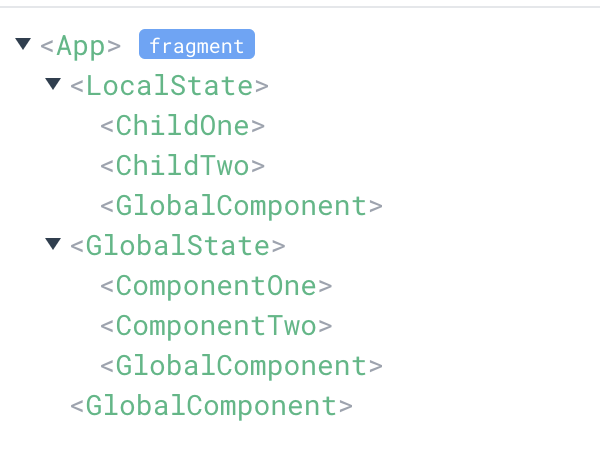
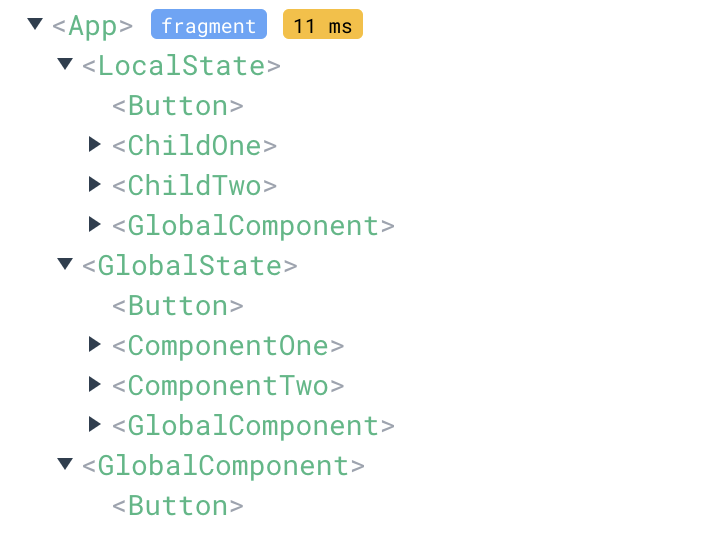
feat: :memo: Update readme

Changed region(s): [[0.06, 0.2403, 0.63, 0.8112], [0.0, 0.0, 1.0, 0.2103], [0.06, 0.8412, 0.6, 0.9614]]

diff --git a/react/vite.config.ts b/react/vite.config.ts
@@ -5,6 +5,6 @@ import react from '@vitejs/plugin-react'
 export default defineConfig({
   plugins: [react()],
   server: {
-    port: 5000,
-  }
-})
+    port: 5001,
+  },
+});

diff --git a/vue/vite.config.ts b/vue/vite.config.ts
@@ -5,6 +5,6 @@ import vue from '@vitejs/plugin-vue'
 export default defineConfig({
   plugins: [vue()],
   server: {
-    port: 5001
-  }
-})
+    port: 5002,
+  },
+});

diff --git a/README.md b/README.md
@@ -2,34 +2,60 @@
 
 ![alt](./react-state.png)
 
-Uno podría pasar el estado como propiedades (props en react) a los componentes hijos, pero esto solo es recomendable hasta cierto punto, por ejemplo, una jerarquía de componentes de 3 niveles, como máximo. Si se requiere pasar el estado a componentes más profundos, se recomienda usar un estado global. Cuando pasamos un prop de un componente a otro componente, y este a otro, y este a otro, se conoce como [prop drilling](https://frontend.adaitw.org/docs/react/react23).
+Uno puede pasar el estado como propiedades (props en react y vue) a los componentes hijos, pero esto solo es recomendable hasta cierto punto, por ejemplo, una jerarquía de componentes de 3 niveles, como máximo. Si se requiere pasar el estado a componentes más profundos, un etado global es una mejor opción. Cuando pasamos un prop de un componente a otro componente más abajo, y este a su vez a otro más abajo, se conoce como [prop drilling](https://frontend.adaitw.org/docs/react/react23).
 
 ### React
 
-En React, se puede compartir estado local, usando el hook `useState`.
+En React, se crean etsados locales usando el hook `useState`. Este estado se puede pasar a otros componentes más abajo, pero no a componentes por fuera de su jerarquía.
 
-Dentro de un componente padre, como  `<App />`, se crea el estado, y se pasa como propiedades a los componentes hijos, como `<ReactChildComponent />`.
+Dentro de un componente padre, como  `<App />`, se crea el estado, y se pasa como propiedades a los componentes hijos, como `<ComponenteHijoReact />` en el siguiente ejemplo.
 
 ```js
-const [count, setCount] = useState
+// App.js
+const [contador, setCount] = useState
 ... 
-<ReactChildComponent count={count} setCount={setCount} />
+<ComponenteHijoReact contador={contador} setCount={setCount} />
 ```
 
-dentro de `<ReactChildComponent />` se puede actualizar el estado de `<App />`, usando el prop `setCount`:.
+Dentro de `<ComponenteHijoReact />` se puede actualizar el estado de `<App />`, usando el prop `setCount`, y este componente a su vez puede compoartir el estado a componentes más abajo:.
 
 ```js
-export function ReactChildComponent({count, setCount}) {
+export function ComponenteHijoReact({contador, setCount}) {
   return (
     <div>
-      <p>Count: {count}</p>
-      <button onClick={() => setCount(count + 1)}>Increment</button>
+      <p>Count: {contador}</p>
+      <button onClick={() => setCount(contador + 1)}>Increment</button>
+      <AnotherComponent contador={contador} />
     </div>
   )
 }
 ```
 
-Tanto el estado, `count`, como la función para actualizar el estado, `setCount`, se pasan como propiedades al componente hijo, y al componente del hijo, y así sucesivamente. De esta manera se puede compartir un estado entre un padre y sus hijos.
+Tanto el estado, `contador`, como la función para actualizar el estado, `setCount`, se pasan como propiedades a componente hijo, y al componente del hijo, y así sucesivamente. De esta manera se puede compartir un estado entre un padre y sus hijos.
+
+Un problema de compartir estado de esta manera es que requiere que se declaren
+explícitamente las propiedades que se pasan a los componentes hijos. Si tengo un componente
+Padre: `<Padre />` y dentro del arbol de `<Padre />` existe un componente `<Hijo />` que requiere el estado, este estado tiene que pasar por todo los ancestros de `<Hijo />`.
+
+```bash
+<Padre />
+├─ <ComponenteUno />
+│  ├─ <ComponenteDos />
+│  │  ├─ <ComponenteTres />
+│  │  │  ├─ <Hijo />
+```
+
+Otro problema es que si se requiere pasar el estado a un componente `<OtroHijo />` que no es hijo de `<App />`, no es posible por metodos convencionales.
+
+```bash
+<Padre />/
+├─ <ComponenteUno />/
+│  ├─ <ComponenteDos />/
+│  │  ├─ <ComponenteTres />/
+│  │  │  ├─ <Hijo />/
+<Hermano />/
+├─ <OtroHijo />/
+```
 
 ### Vue
 
@@ -38,80 +64,153 @@ En vue también se puede compartir estado local, usando refs, que son valores mu
 ```js
 import { ref } from 'vue'
 
-const count = ref(0)
+const contador = ref(0)
 
-const incrementCount = () => {
-  count.value++
+const incrementarContador = () => {
+  contador.value++
 }
 ...
-<VueChildComponent :count=count :incrementCount=incrementCount />
+<ComponenteHijoVue :contador=contador :incrementarContador=incrementarContador />
 ```
 
-Dentro de `<VueChildComponent />` se puede actualizar el estado de `<App />` a través de la propiedad `incrementCount`:
+Dentro de `<ComponenteHijoVue />` se puede actualizar el estado de `<App />` a través de la propiedad `incrementarContador` y pasar el estado a componentes más abajo:
 
 ```js
-defineProps<{ count: number, incrementCount: () => void }>()
+defineProps<{ contador: number, incrementarContador: () => void }>()
 
 </script>
 
 <template>
  <div>Child Component
-    <div> {{count}}</div>
-    <button @click="incrementCount">
-      Increment  count
-    </button> 
+    <div> {{contador}}</div>
+    <button @click="incrementarContador">
+      Increment  contador
+    </button>
+    <AnotherComponent :contador=contador />
   </div>
  
 </template>
 ```
 
+Los problemas que se mencionaron para React también se aplican a Vue ya que ambos tienen una jerarquía de componentes.
+
+### Vue/React
+
+Se puede pensar en los componentes como si fueran funciones simples, y el estado como si fuera un argumento en esas funciones. En el siguiente ejemplo, las funciones `Hijo`, `Nieto`, `Bisnieto` están declaradas por fuera de `App`, entonces para que puedan acceder a `contador` tienen que recibirlo como argumento.
+
+```js
+function Hijo(contador, incrementarContador) {
+  console.log(contador.valorActual) // 0
+
+  incrementarContador()
+  Nieto(contador, incrementarContador)
+}
+
+function Nieto(contador, incrementarContador) {
+  console.log(contador.valorActual) // 1
+
+  incrementarContador()
+  Biznieto(contador, incrementarContador)
+}
+
+function Bisnieto(contador, incrementarContador) {
+  console.log(contador.valorActual) // 2
+
+  incrementarContador()
+}
+
+function App() {
+
+  let contador = {
+    valorActual: 0
+  };
+
+  function incrementarContador() {
+    contador.valorActual++
+  }
+
+  Hijo(contador, incrementarContador);
+
+  console.log(contador.valorActual) // 3
+}
+App();
+```
+
 ## Estado Global
-
-### React
-
-En el ecosistema de React, existen muchas opciones de estado global. Algunas son Redux,
-[zustand](https://github.com/pmndrs/zustand), [jotai](https://jotai.org/), [recoil](https://recoiljs.org/), y el propio [Context API](https://reactjs.org/docs/context.html) de React.
-
-Con una libreria como estas, se puede crear un estade centralizado, y compartirlo entre componentes sin tener que pasar el estado a través props.
-
-![alt](./global-state.png)
 
 Este tipo de estados no requieren de un componente padre, y pueden ser usados en cualquier parte de la aplicación.
 
+![alt](./global-state.png)
+
+### React
+
+En el ecosistema de React, existen muchas opciones de estado global. Algunas son [Redux](https://redux.js.org/), [zustand](https://github.com/pmndrs/zustand), [jotai](https://jotai.org/), [recoil](https://recoiljs.org/), y el propio [Context API](https://reactjs.org/docs/context.html) de React.
+
+Con una libreria como estas, se puede crear un estado centralizado, y compartirlo entre componentes sin tener que pasar el estado a través props.
+
+En este repo se puede ver un ejemplo de como usar Jotai con React: [App.js](./react/src/App.tsx)
+
+Para verlo entrar a la carpeta `react/`,  ejecutar `yarn install` y `yarn dev`.
+
+Este ejemplo de react, se genera un arbol de componentes como el siguiente:
+
 ![alt](./react-tree.png)
 
-En la imagen de arriba se puede ver un ejemplo de una jerarquía de componentes en react. `<GlobalComponent />`, `<GlobalState/>`, `<ComponentOne />`, y `<ComponentTwo />` pueden accedor a un mismo estado global, usando `jotai`, sin pasar el estado como propiedades.
+Los componentes `<GlobalComponent />`, `<GlobalState/>`, `<ComponentOne />`, y `<ComponentTwo />` acceden a un mismo estado global, usando `jotai`, sin recibir el estado como propiedades.
 
 ### Vue
 
-Vue tiene una solución de estado global, se llama `reactive`. También hay otroas opciones
-como Vuex, y Pinia.
+Vue viene con una solución de estado global, se llama `reactive`. También hay otroas opciones
+como [Vuex](https://vuex.vuejs.org/), y [Pinia](https://pinia.vuejs.org/).
 
-Podemos crear un estado global, usando `reactive`, asi:
+En este repo también se puede ver un ejemplo de un estado global: [App.vue](./vue/src/App.vue)
+
+Para verlo entrar a la carpeta `vue/`,  ejecutar `yarn install` y `yarn dev`.
+
+Este ejemplo de vue, se genera arbol de componentes como el siguiente:
+
+![alt](./vue-tree.png)
+
+Los componentes `<GlobalComponent />`, `<GlobalState/>`, `<ComponentOne />`, y `<ComponentTwo />` acceden a un mismo estado global, usando `reactive`, sin pasar el estado como propiedades usando.
+
+Para crear un estado global, usando `reactive`, podemos hacer lo siguiente:
 
 ```js
+// store.js
 import { reactive } from "vue";
 
 export const store = reactive({
-  count: 0,
+  contador: 0,
 });
 ```
 
-Y podemos acceder al estado global, usando `store`, y mutarlo:
+En algun componente:
 
 ```js
 import { store } from "./store";
 
-const incrementCount = () => {
-  store.count++;
+const incrementarContador = () => {
+  store.contador++;
 };
 ```
 
 Cualquier componente que este leyendo de `store`, se actualizará cuando el estado cambie.
 
-![alt](./vue-tree.png)
+### Como saber que tipo de estado usar?
 
-En la imagen de arriba se puede ver un ejemplo de una jerarquía de componentes en vue. `<GlobalComponent />`, `<GlobalState/>`, `<ComponentOne />`, y `<ComponentTwo />` pueden accedor a un mismo estado global, usando `reactive`, sin pasar el estado como propiedades usando.
+#### React
+
+- Si el estado es compartido entre una jerarquia pequeña de componentes, de 3 niveles por ejemplo, un estado compartido a traves de props está bien, `useState` o `useReducer` son buenas opciones.
+  
+- Si el estado es compartido entre una jerarquia grande de componentes, o se necesita compartir el estado entre componentes que no estan relacionados, usar un estado global.`jotai`,  `Context API`, `Redux`, `zustand`, y `recoil` son buenas opciones. Siendo la primera de las opciones la más simple.
+
+#### Vue
+
+- Si el estado es compartido entre una jerarquia pequeña de componentes, compartir el el estado con props. Para reactividad, usar `ref`
+
+- Si el estado debe compartirse entre una jerarquia grande de componentes, o se necesita compartir el estado entre componentes que no estan relacionados, usar un estado global. `reactive`, `Vuex`, y `Pinia` son buenas opciones. Siendo `reactive` la más simple, pero `Pinia` la más recomendada.
+
+#### Vue
 
 ### Ejemplos
 
@@ -131,35 +230,46 @@ yarn dev
 
 ```bash
 ├── App.tsx
-├── Global
-│   ├── ComponentOne.tsx
-│   ├── ComponentTwo.tsx
-│   ├── GlobalComponent.tsx
-│   ├── GlobalState.tsx
-│   └── store.ts
-├── Local
-│   ├── ChildOne.tsx
-│   ├── ChildTwo.tsx
-│   └── LocalState.tsx
+└── components
+    ├── Global
+    │   ├── Button.tsx
+    │   ├── ComponentOne.tsx
+    │   ├── ComponentTwo.tsx
+    │   ├── GlobalComponent.tsx
+    │   ├── GlobalState.tsx
+    │   └── store.ts
+    └── Local
+        ├── Button.tsx
+        ├── ChildOne.tsx
+        ├── ChildTwo.tsx
+        └── LocalState.tsx
 ```
 
-Dentro del directorio `Global/`, el archivo `store.ts` contiene un ejemplo de un estado global, usando librería [`jotai`](https://jotai.org/). `<GlobalState />`, `<ComponentOne />`, `<ComponentTwo />`, y `<GlobalComponent />` consumente este estado global. Leen y escriben sobre mismo valor.
+Dentro del directorio `Global/`, el archivo `store.ts` contiene un ejemplo de un estado global, usando librería [`jotai`](https://jotai.org/).
 
-Los copmponentes dentro del directorio `Local/`, reciben props del estado creado en `<App />` y lo mutan a través de otro prop que tambien reciben. Con este tipo de estado, cada consumidor require que el estado y una función para alterar el estado sean pasadas como props, creando mucha complejidad cuando hay muchos componentes anidados.
+`<GlobalState />`, `<ComponentOne />`, `<ComponentTwo />`, y `<GlobalComponent />` consumen este estado global. Leen y escriben sobre mismo valor.
+
+Los copmponentes dentro del directorio `Local/`, reciben props del estado creado en `<App />` y lo mutan a través de otro prop que tambien reciben. Con este tipo de estado, cada consumidor require que el estado y una función para alterar el estado sean pasadas como props.
 
 #### vue
 
 ```bash
 ├── App.vue
-├── components
-│   ├── ChildOne.vue
-│   ├── ChildTwo.vue
-│   ├── ComponentOne.vue
-│   ├── ComponentTwo.vue
-│   ├── GlobalComponent.vue
-│   ├── GlobalState.vue
-│   ├── LocalState.vue
-│   └── store.ts
+└── components
+    ├── Global
+    │   ├── Button.vue
+    │   ├── ComponentOne.vue
+    │   ├── ComponentTwo.vue
+    │   ├── GlobalComponent.vue
+    │   ├── GlobalState.vue
+    │   └── store.ts
+    └── Local
+        ├── Button.vue
+        ├── ChildOne.vue
+        ├── ChildTwo.vue
+        └── LocalState.vue
 ```
 
-Dentro del directorio `components/`, el archivo `store.ts` contiene un ejemplo de un estado global, usando la funcion [`reactive`](https://v3.vuejs.org/guide/reactivity-fundamentals.html#reactive) de `vue`. `<GlobalState />`, `<ComponentOne />`, `<ComponentTwo />`, y `<GlobalComponent />` consumente este estado global sin necesidad de recibir el estado como props de un componente padre. Por otro lado, los componentes `<ChildOne />` y `<ChildTwo />` reciben el estado como props, y lo mutan a través de otro prop que tambien reciben.
+Dentro del directorio `Global/`, el archivo `store.ts` contiene un ejemplo de un estado global, usando la funcion [`reactive`](https://v3.vuejs.org/guide/reactivity-fundamentals.html#reactive) de `vue`.
+
+`<GlobalState />`, `<ComponentOne />`, `<ComponentTwo />`, y `<GlobalComponent />` consumente este estado global sin necesidad de recibir el estado como props de un componente padre. Por otro lado, los componentes dentro de `Local`, como `<ChildOne />` y `<ChildTwo />` reciben el estado como props, y lo pueden mutar usando otro prop.
